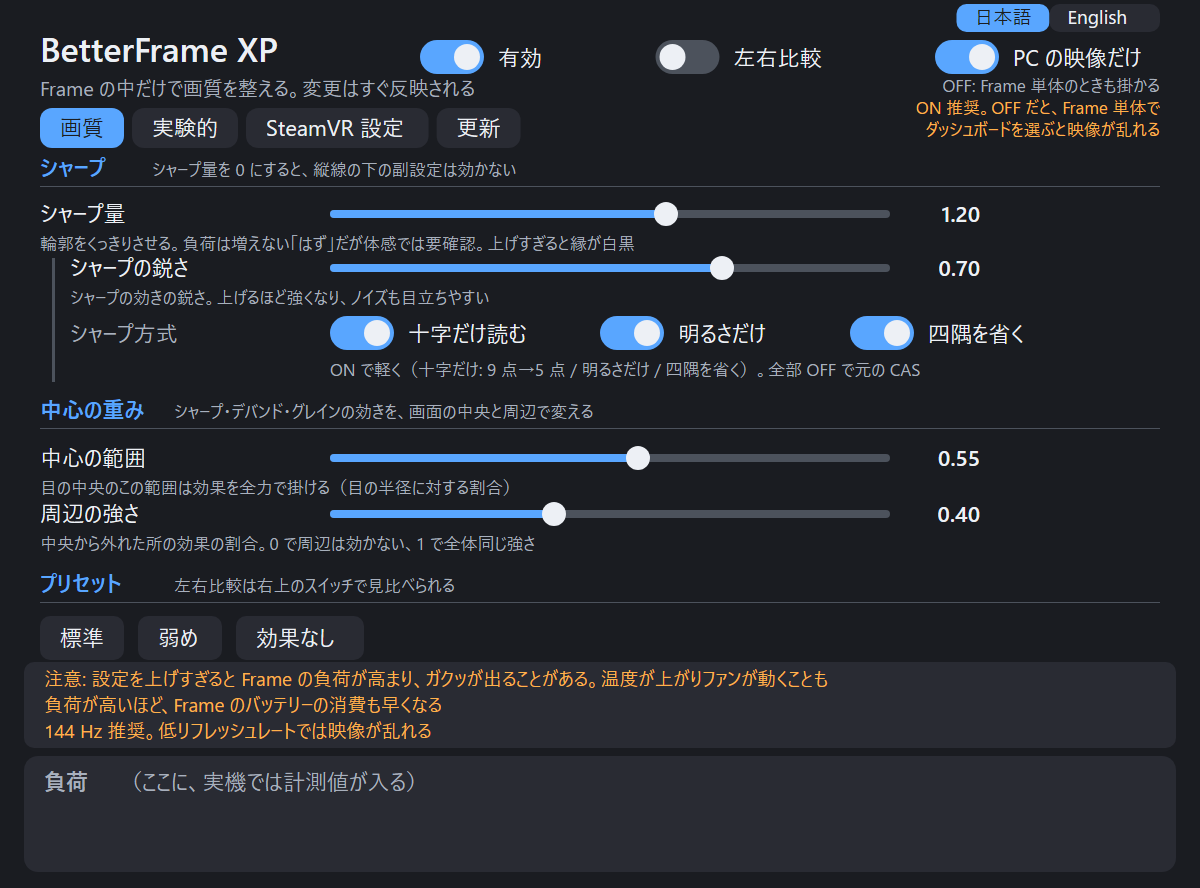
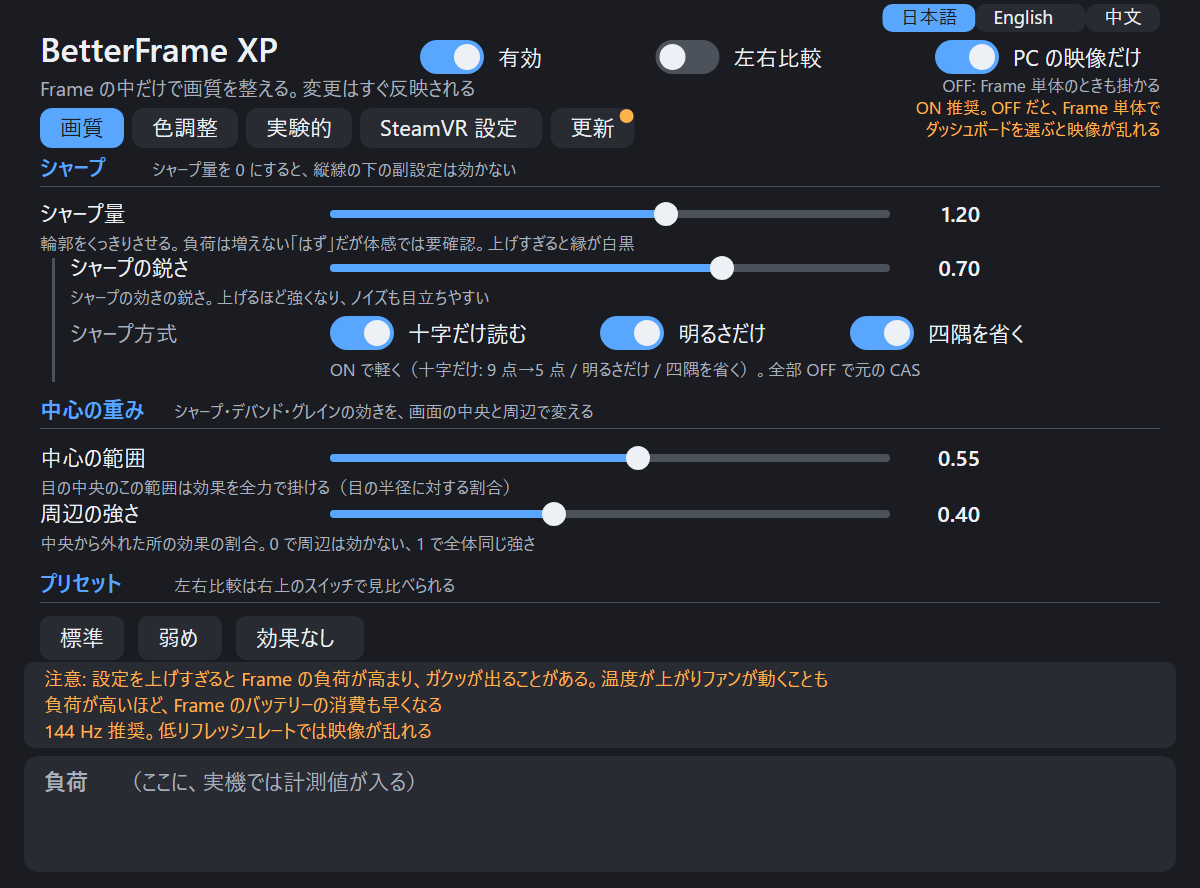
文書に色調整と中国語の説明を足し、中国語版 README を追加する
- README.zh.md を追加（README / README.en.md からリンク）。
- README / GUIDE / SETTINGS / ARCHITECTURE に色調整の節を足す。
- CHANGELOG に 0.1.3 を追記。
- パネルの見本を撮り直す（タブが 5 つになったため）。英語・中国語の見本も追加。

diff --git a/README.zh.md b/README.zh.md
@@ -1,0 +1,159 @@
+# BetterFrame XP
+
+其他语言：日本語 → [README.md](README.md) / English → [README.en.md](README.en.md)
+
+在 Steam Frame 上，把 PC 通过 Steam Link 送来的画面**在 Frame 侧做后期锐化（AMD CAS）**。这是一个让无线传输下略微模糊的画面变得清晰、让 VRChat 的草叶「像泥一样」糊掉的情况不那么显眼的工具。
+
+> **状态：试验版。** 只在作者的 1 台 Frame 上确认过。确认有效果的只有锐化。虽然设计成装上之后也能还原，但不保证能正常工作。
+
+## 效果示例
+
+作者拍摄的 Frame 画面照片（拍摄条件：高级超级采样为关、分辨率 250%、刷新率 144 Hz）。
+
+| before | after |
+|---|---|
+| ![before 1](docs/images/fx-before-1.jpg) | ![after 1](docs/images/fx-after-1.jpg) |
+| ![before 2](docs/images/fx-before-2.jpg) | ![after 2](docs/images/fx-after-2.jpg) |
+
+照片出自单人单机，观感评价凭作者的眼睛。因为是拍摄屏幕的照片，所以拍进了扫描线和摩尔纹。
+
+## 为什么放在 Frame 侧
+
+无线传输时画面会被压缩，细密的图案会最先被丢掉。丢掉的东西无法恢复。不过，如果在 PC 侧施加锐化，被强调的细节又会吃掉压缩的比特。**如果在解码之后（Frame 侧）施加，就不占用比特。** 详见[指南](docs/GUIDE.md#画面通路pc--frame)。
+
+```
+PC ─ 编码 ─ 无线 ─▶ Frame: 解码 ─▶ 合成器 ─▶ ★在这里锐化 ─▶ 显示器
+```
+
+## 安装（在 Frame 上用 1 条命令）
+
+```sh
+git clone https://github.com/omuomu0909/betterframe-xp.git && cd betterframe-xp
+sh contrib/setup.sh
+```
+
+会依次进行确认 → 构建（约 1 分钟）→ 安装 → 启用。如果缺少什么，就不做任何改动、说出原因后停止。只想先检查的话，执行 `sh contrib/setup.sh --check`。
+
+之后请在**不玩游戏的时候重启 SteamVR**（`setup.sh` 不会重启）。
+
+```sh
+~/.local/bin/betterframectl status   # 如果输出 "loaded in vrcompositor" 就表示成功
+```
+
+PC 侧的 SteamVR 里，编码前的锐化（`useSharpening`）请**保持关闭**。两边都施加就重复了。
+
+需要的环境：Steam Frame（SteamOS、aarch64）。不需要 root。构建工具在 SteamOS 0.5.6 里本来就有。仪表盘的面板也会一起装上并启用（需要中日文字体 `noto-cjk` 等。缺少的话 `setup.sh` 会停止。不需要面板就加 `--no-panel`）。面板默认日文，可在右上角切换「日本語 / English / 中文」。
+
+## 使用方法
+
+面板的外观（用 `panel/tools/panel_preview.py --shots` 生成的图片）：
+
+| 画质 | 色彩 | 更新 | 重启提示 |
+|---|---|---|---|
+| ![画质标签页](docs/images/panel-quality-zh.png) | ![色彩标签页](docs/images/panel-color-zh.png) | ![更新标签页](docs/images/panel-update-zh.png) | ![需要重启](docs/images/panel-restart-zh.png) |
+
+这些图片不是真机画面，而是把面板的绘制方式照搬到 HTML 的样张（数值是默认值，负载一栏在真机上会填入实测值）。
+
+### 面板基础
+
+- 在仪表盘的「BetterFrame XP」面板里，一边看施加的强弱一边调整。标签页有「画质 / 色彩 / 实验性 / SteamVR 设置 / 更新」。
+- 右上角的开关：「启用」（锐化等整体的 ON/OFF）、「左右对比」（在每只眼睛的中央画一条线。左边是直通，右边是处理后——锐化、去色带、颗粒和色彩校正都算在内）、「仅 PC 画面」（推荐 ON。OFF 的话 Frame 单独运行时也会施加）。
+- 画质标签页是「锐化」「中心权重」「预设」。色彩标签页是「对比度 / 饱和度 / 伽马 / 色温 / 亮度」，在锐化之后对最终画面做一次色彩校正（1.0 = 不改变），另有「中性 / 鲜明 / 柔和 / 护眼」四个快捷值（护眼 = 偏暖、降低刺眼感）。实验性标签页是「去色带」「锐化辅助」「颗粒」。竖线下面的子设置，在对应段落的量（锐化量、去色带量、颗粒量）为 0 时不生效。
+- 只有「SteamVR 设置」标签页的开关，改写的是 Frame 上 SteamVR 本身的设置。各开关的作用写在那个标签页的 Tips 里。
+
+### 关闭面板、再次打开
+
+- 不需要的时候，把光标移到仪表盘下方图标栏里的 BetterFrame XP 图标上，按「关闭」。面板程序结束，**「启用」变成 OFF**（锐化等变为直通。这是为了防止在没有可操作画面的情况下一直施加）。其他设置的数值不变。
+- 下次启动 SteamVR 时面板还会出现，但「启用」仍是 OFF。要用的时候自己打开。如果一直不想让它出现，用 `betterframectl panel-off`。
+- 关闭之后想再打开时，从仪表盘「＋」按钮的列表里选「BetterFrame XP」。打开之后，把右上角的「启用」打开。
+
+### 用命令操作
+
+```sh
+betterframectl set sharpenAmount 1.0   # 锐化量（0 表示不施加）
+betterframectl set contrast 1.1        # 对比度（1.0 表示不改变）
+betterframectl off                     # 立即直通
+betterframectl on
+```
+
+### 确认是否生效
+
+用 `betterframectl set showSplit 1`，在每只眼睛的中央画一条线。线的左边完全直通，右边是处理后的结果（锐化、去色带、颗粒、色彩校正都只在右侧），所以可以对比（和面板的「左右对比」一样）。调色时也能这样确认差异。
+
+### 提高强度时
+
+- **提高强度也「应该」不会增加负载**（锐化量只用在最后的乘法上，读取的像素和计算量都一样。负载变化的只是 0 和大于 0 两种。没有做过改变强度的测量）。
+- 但是在作者的主观感受里「设置越强越容易卡顿」，这和公式上的预期**不一致（未解决）**。提高强度后如果顿感增加，请降下来。详见 [docs/STUTTER.md](docs/STUTTER.md) 的 A-3。
+- 各数值的含义以及**哪些可以说确实有效**，见[设置参考](docs/SETTINGS.md)。文档把「改变后会这样」的「**应该**」（从计算公式和代码能得出的预测）与「**作者实际感受到的**」（单人单机）分开写。别人试验时，请把前者当作参考。
+
+### 出现「需要重启 SteamVR」时
+
+安装或更新之后，在重启 SteamVR 之前，图层（Vulkan layer，画面一侧）的内容不会生效。这时面板上方会出现橙色条带，所以在不玩游戏的时候重启（这个工具不会重启）。重启后条带消失。只重装面板时，不会出现条带。
+
+### 更新
+
+在「更新」标签页里确认 GitHub 的最新发行版，如果有更新的版本，用「更新到这个版本」替换。下载的文件会先核对 SHA-256 再安装。替换在别的进程里进行，关闭面板也会继续。不会重启 SteamVR（从下次启动 SteamVR 开始生效）。每小时自动检查可以在同一个标签页里关掉。只看 GitHub 的公开发行版（非公开仓库无法检查）。手动更新的话，先 `git pull`，再执行 `sh contrib/install.sh`。
+
+## 推荐的 SteamVR 设置
+
+在作者的 1 台 Frame 上试过、觉得不错的设置（单人单机的主观感受。是否合适因人而异）。锐化效果示例的照片是在高级超级采样为关、分辨率 250%、144 Hz 下拍的。
+
+| 设置 | 推荐 | 在哪里 | 理由 |
+|---|---|---|---|
+| 高级超级采样 | 关 | PC 的 SteamVR | 关掉更清晰，也更轻（作者的主观感受） |
+| 分辨率 | 200〜300%（作者是 250%） | PC 的 SteamVR | 如果 GPU 有余量，越高压缩带来的模糊感越少（作者的主观感受） |
+| 刷新率 | 144 Hz（120 Hz 也可以） | PC 的 SteamVR | 其他刷新率下施加锐化有时会卡顿（见下面「需要了解的事项」） |
+| 编码前的锐化（`useSharpening`） | 关 | PC 的 SteamVR | 会与这个工具的锐化重复 |
+| 景深校正（视线追踪重投影） | OFF | Frame 上面板的「SteamVR 设置」标签页 | 在作者的环境里，对减少摇晃最有效。目前没有遇到麻烦（单人单机的主观感受） |
+| 眼位校正 | OFF | 同上 | 和景深一起设为 OFF 后稳定了（单独的效果未确认）。OFF 与 Valve 的默认值相同 |
+
+除此之外的设置（目标比特率、传输画面的宽度等）还没有区分到可以推荐的程度。
+
+## 还原
+
+```sh
+betterframectl disable     # 从下次启动 SteamVR 起不再加载
+betterframectl uninstall   # 全部删除（在 SteamVR 启动的状态下）
+```
+
+如果 SteamVR 持续启动失败，还有自动摘掉图层的机制（[指南](docs/GUIDE.md#启动失败时自动保护)）。
+
+## 需要了解的事项
+
+> **注意：设置调得过高，Frame 的 GPU 负载会升高，可能出现卡顿。** 负载升高时 Frame 的温度也会升高，风扇可能会转。**电池消耗也会变快。** 请一边看面板下方的「负载」数值（GPU ms），一边注意不要调得过高。卡顿的种类见 [docs/STUTTER.md](docs/STUTTER.md)。
+
+- **当前的构建还没有在头显内确认**（处于重启 SteamVR 后确认的阶段）。
+- **把画面设成 144 Hz 和 120 Hz 以外时，施加锐化可能会以固定间隔出现卡顿**（在作者的 1 台 Frame 上，于 72 Hz 和 80 Hz 确认。原因未确定）。**请使用 144 Hz 或 120 Hz，其他刷新率下请把 `sharpenAmount` 设为 0。** 在作者的 Frame 上，关掉锐化就停止了。详见 [docs/STUTTER.md](docs/STUTTER.md) 的 F。
+- 只有面板的「SteamVR 设置」标签页（景深校正、眼位校正）不是改写图层，而是改写 **SteamVR 的设置**。不按开关就什么都不写。最初的值已经记录下来，`uninstall` 会还原。在作者的环境里关掉后摇晃减少了，但这是单人单机的主观感受。
+- 丢失的细节无法造出（这不是超分辨率）。把 `sharpenAmount` 提高到 1 以上，边缘容易出现黑白描边。
+- OS / SteamVR 的更新可能让它无法运行。
+- 「实验性」标签页（去色带、颗粒等）在外观上的评价还不充分。
+- **调整去色带量会出现画面紊乱的问题**（面板的实验性标签页里也写了）。如果乱了，把 `debandAmount` 改回 0。条件和原因还没有调查。
+
+## 术语
+
+| 词语 | 含义 |
+|---|---|
+| CAS | AMD 的锐化（强调轮廓）处理。这个工具在 Frame 侧施加的 |
+| 图层 | Vulkan 图层。在 SteamVR 的画面构建（vrcompositor）显示之前，把处理插入图像的部件 |
+| vrcompositor | SteamVR 的合成器。组装要显示的帧。重启的对象就是它 |
+| 去色带 | 让天空等处的色阶（条带）变平滑的处理（实验性） |
+| 颗粒 | 在画面上叠加细小的颗粒，让压缩带来的平淡感不那么显眼的处理（实验性） |
+| `params.conf` | 设置文件。面板和 `betterframectl set` 会改写它（`~/.config/betterframe-xp/`） |
+
+## 延伸阅读
+
+| 文档 | 内容 |
+|---|---|
+| [docs/GUIDE.md](docs/GUIDE.md) | 详细的指南。画面经过的路径、安装位置一览、各校正的技术说明、还原方法、已知问题 |
+| [docs/SETTINGS.md](docs/SETTINGS.md) | 设置一览，以及已确认 / 未确认的事项 |
+| [docs/STUTTER.md](docs/STUTTER.md) | 「卡顿」的种类（6 种），以及这个工具相关 / 无关的部分。出现卡顿时的分辨方法 |
+| [docs/ARCHITECTURE.md](docs/ARCHITECTURE.md) | 实现的说明（图层、画面检测、测量） |
+| [CHANGELOG.md](CHANGELOG.md) | 各版本的变更 |
+| [THIRD_PARTY.md](THIRD_PARTY.md) | 所依据的代码与许可证 |
+
+## 许可证
+
+MIT License（[LICENSE](LICENSE)）。Copyright (c) 2026 omuomu0909。
+
+所依据的代码采用其他许可证，各自的声明在 [THIRD_PARTY.md](THIRD_PARTY.md) 和各目录的 `LICENSE` 里（图层是 zlib，面板的一部分是 MIT，OpenVR 头文件是 BSD-3-Clause，CAS 与 deband 是 MIT）。

diff --git a/docs/SETTINGS.md b/docs/SETTINGS.md
@@ -63,6 +63,27 @@
 | `grainSize` | 1〜4 px / 1 | 粒が大きくなる | 個別の評価なし | 測っていない |
 | `grainAnimate` | 0/1 / 1 | 1 は毎フレーム粒が変わる（64 通りで循環）。0 は固定 | VR では、固定だと「顔に貼り付いて」見え、動かすとちらつきに見えることがある | 変わらない「はず」 |
 
+## 色調整（パネルの「色調整」タブ。1.0 で変化なし）
+
+シャープ・デバンド・グレインのあとで、最終的な画面の色を整える。**5 つとも 1.0 のときは着色器がこの段落を飛ばす**（レイヤーは素通しコピーのまま）。色調整は「目の中心の重み」の影響を受けず、目全体に均一に掛かる。
+
+| キー | 範囲 / 既定 | 変えると「はず」 | 作者の体感 | 負荷 |
+|---|---|---|---|---|
+| `contrast` | 0.5〜1.5 / 1.0 | 中間グレーを軸に明暗の差を変える。1 より大きいと硬調、小さいと平坦 | 新規。未評価 | 「はず」ほぼ増えない（1 画素 1 回の積和） |
+| `saturation` | 0〜2 / 1.0 | 輝度と混ぜる。0 で白黒、1 より大きいと鮮やか | 同上 | 同上 |
+| `gamma` | 0.5〜2.5 / 1.0 | 出力を `pow(c, 1 / gamma)` する。1 より大きいと中間調が持ち上がる | 同上 | 1.0 以外のときだけ 1 画素 2 回の `pow` |
+| `temperature` | 0.8〜1.2 / 1.0 | RGB ゲイン `(t, 1, 1/t)` を輝度で正規化する。暖色・寒色に寄せても明るさは変わらない | 同上 | ごくわずか |
+| `brightness` | 0.5〜1.5 / 1.0 | 最後に全体へ掛ける（ガンマのあと） | 同上 | ごくわずか |
+
+ショートカット（この 5 つだけを変える）:
+
+| ショートカット | `contrast` | `saturation` | `gamma` | `temperature` | `brightness` |
+|---|---|---|---|---|---|
+| ニュートラル | 1.00 | 1.00 | 1.00 | 1.00 | 1.00 |
+| ビビッド | 1.03 | 1.10 | 1.01 | 1.01 | 1.01 |
+| ソフト | 0.95 | 0.90 | 1.05 | 1.00 | 0.98 |
+| アイケア（暖色） | 1.05 | 1.10 | 1.00 | 1.05 | 1.00 |
+
 ## 視線の補正（SteamVR の設定。`params.conf` には書かない）
 
 パネルの「SteamVR 設定」タブで、Frame のアイトラッキングの補正 2 つをオン/オフする。シャープとは別の機能で、レイヤーは関係しない。SteamVR 自体の設定を書き換えるのはこのタブだけ。
@@ -92,6 +113,7 @@
 | タブ | 中身 |
 |---|---|
 | 画質 | 段落ごとに分けてある。**シャープ**: `sharpenAmount`（主）。その下に副設定として `sharpness` と、シャープの方式 `casCross` `casLuma` `cornerSkip`（`casCross` `casLuma` `cornerSkip` は軽量化）。副設定は `sharpenAmount` が 0 のときは効かない。**中心の重み**: `centerRadius` `edgeAmount`。**プリセット**（標準 / 弱め / 効果なし）。右上のヘッダーに `enabled` `showSplit` `streamOnly` |
+| 色調整 | 5 つのスライダー（`contrast` `saturation` `gamma` `temperature` `brightness`）とショートカット（ニュートラル / ビビッド / ソフト / アイケア）。**シャープのあとに最終画面へ掛かる。中心の重みの影響を受けない** |
 | 実験的 | 段落ごとに分けてある。デバンド（主: `debandAmount`、副: `debandRange` `debandThreshold`）/ シャープの補助（`detailBoost`。画質タブの `sharpenAmount` が 0 だと効かない）/ グレイン（主: `grainAmount`、副: `grainSize` `grainAnimate`）。プリセット（暗部重視 / 草・地面）。3 つの効果とも「中心の重み」で周辺ほど弱まる |
 | SteamVR 設定 | Frame の SteamVR の設定である、視線の補正（奥行き / 目の位置）と、それぞれの Tips。**SteamVR 自体の設定を書き換えるのはこのタブだけ** |
 | 更新 | いまの版 / 最新の版、「今すぐ確認」「この版に更新する」、1 時間ごとの自動確認のスイッチ（`updateAutoCheck`、既定 ON。パネルだけが使う設定で、レイヤーは読まない）。仕組みは [GUIDE の更新の節](GUIDE.md#更新パネルから) |

diff --git a/README.md b/README.md
@@ -1,6 +1,6 @@
 # BetterFrame XP
 
-English: [README.en.md](README.en.md)
+English: [README.en.md](README.en.md) / 中文: [README.zh.md](README.zh.md)
 
 Steam Frame で、PC から Steam Link で送られてくる映像に**シャープ（AMD CAS）を Frame 側で後掛け**する。無線で少しぼやけた映像をくっきりさせ、VRChat の草や葉が「泥のように」つぶれるのを目立たなくするための道具。
 
@@ -42,23 +42,23 @@ sh contrib/setup.sh
 
 PC 側の SteamVR で、エンコード前のシャープ（`useSharpening`）は**切っておく**。両方掛けると二重になる。
 
-必要なもの: Steam Frame（SteamOS、aarch64）。root 不要。ビルド道具は SteamOS 0.5.6 に最初から入っていた。ダッシュボードのパネルも一緒に入って有効になる（日本語フォント `noto-cjk` などが要る。足りなければ `setup.sh` が止まる。パネル不要なら `--no-panel`）。パネルは日本語が既定で、右上の「日本語 / English」で切り替えられる。
+必要なもの: Steam Frame（SteamOS、aarch64）。root 不要。ビルド道具は SteamOS 0.5.6 に最初から入っていた。ダッシュボードのパネルも一緒に入って有効になる（日本語フォント `noto-cjk` などが要る。足りなければ `setup.sh` が止まる。パネル不要なら `--no-panel`）。パネルは日本語が既定で、右上の「日本語 / English / 中文」で切り替えられる。
 
 ## 使い方
 
 パネルの見た目（`panel/tools/panel_preview.py --shots` で作った画像）:
 
-| 画質 | 更新 | 再起動の表示 |
-|---|---|---|
-| ![画質タブ](docs/images/panel-quality-ja.png) | ![更新タブ](docs/images/panel-update-ja.png) | ![再起動が必要](docs/images/panel-restart-ja.png) |
+| 画質 | 色調整 | 更新 | 再起動の表示 |
+|---|---|---|---|
+| ![画質タブ](docs/images/panel-quality-ja.png) | ![色調整タブ](docs/images/panel-color-ja.png) | ![更新タブ](docs/images/panel-update-ja.png) | ![再起動が必要](docs/images/panel-restart-ja.png) |
 
 画像は実機の画面ではなく、パネルの描き方を HTML に写した見本（数値は既定値、負荷の欄は実機で計測値が入る場所）。
 
 ### パネルの基本
 
-- ダッシュボードの「BetterFrame XP」パネルで、掛け具合を見ながら変える。タブは「画質 / 実験的 / SteamVR 設定 / 更新」。
+- ダッシュボードの「BetterFrame XP」パネルで、掛け具合を見ながら変える。タブは「画質 / 色調整 / 実験的 / SteamVR 設定 / 更新」。
 - 右上のスイッチ: 「有効」（シャープなど全体の ON/OFF）、「左右比較」（各目の中央に線を引く。左が素通し、右が処理後）、「PC の映像だけ」（ON 推奨。OFF だと Frame 単体のときも掛かる）。
-- 画質タブは「シャープ」「中心の重み」「プリセット」。実験的タブは「デバンド」「シャープの補助」「グレイン」。縦線の下の副設定は、その段落の量（シャープ量・デバンド量・グレイン量）が 0 のときは効かない。
+- 画質タブは「シャープ」「中心の重み」「プリセット」。色調整タブは「コントラスト / 彩度 / ガンマ / 色温度 / 明るさ」で、シャープのあとで最終画面の色を整える（1.0 で変化なし）。ショートカットは「ニュートラル / ビビッド / ソフト / アイケア」。実験的タブは「デバンド」「シャープの補助」「グレイン」。縦線の下の副設定は、その段落の量（シャープ量・デバンド量・グレイン量）が 0 のときは効かない。
 - 「SteamVR 設定」タブのスイッチだけが、Frame の SteamVR 自体の設定を書き換える。各スイッチの効果は、そのタブの Tips に書いてある。
 
 ### パネルを閉じる・もう一度出す

diff --git a/README.en.md b/README.en.md
@@ -1,6 +1,6 @@
 # BetterFrame XP
 
-Japanese: [README.md](README.md)
+Japanese: [README.md](README.md) / Chinese: [README.zh.md](README.zh.md)
 
 On Steam Frame, this applies AMD CAS sharpening on the Frame side to the video that the PC sends over Steam Link. It makes the slightly blurry wireless video sharper, and makes the "smeared like mud" look of grass and leaves in VRChat a little less noticeable.
 
@@ -44,23 +44,23 @@ Then **restart SteamVR while you are not playing** (`setup.sh` does not restart 
 
 On the PC side, turn **off** sharpening before encoding (`useSharpening`) in SteamVR. Running both applies it twice.
 
-Requirements: Steam Frame (SteamOS, aarch64). Root is not needed. The build tools were already included in SteamOS 0.5.6. The dashboard panel is installed and enabled too. It needs a Japanese font (`noto-cjk` and similar); if that is missing, `setup.sh` stops. To skip the panel, use `--no-panel`. The panel is in Japanese by default; the "日本語 / English" buttons at its top right switch the language.
+Requirements: Steam Frame (SteamOS, aarch64). Root is not needed. The build tools were already included in SteamOS 0.5.6. The dashboard panel is installed and enabled too. It needs a Japanese font (`noto-cjk` and similar); if that is missing, `setup.sh` stops. To skip the panel, use `--no-panel`. The panel is in Japanese by default; the "日本語 / English / 中文" buttons at its top right switch the language.
 
 ## Usage
 
 Look of the panel (images made with `panel/tools/panel_preview.py --shots`):
 
-| Quality | Update | Restart notice |
-|---|---|---|
-| ![Quality tab](docs/images/panel-quality-ja.png) | ![Update tab](docs/images/panel-update-ja.png) | ![Restart needed](docs/images/panel-restart-ja.png) |
+| Quality | Colour | Update | Restart notice |
+|---|---|---|---|
+| ![Quality tab](docs/images/panel-quality-en.png) | ![Colour tab](docs/images/panel-color-en.png) | ![Update tab](docs/images/panel-update-en.png) | ![Restart needed](docs/images/panel-restart-en.png) |
 
 These are not screenshots from the device. They are mockups of the panel's HTML, with default values. The load field is where measured values appear on the device.
 
 ### Panel basics
 
-- Adjust the look on the dashboard's "BetterFrame XP" panel while you watch it. Tabs: Quality / Experimental / SteamVR settings / Update.
+- Adjust the look on the dashboard's "BetterFrame XP" panel while you watch it. Tabs: Quality / Colour / Experimental / SteamVR settings / Update.
 - Switches at the top right: "Enabled" (turns sharpening and the rest on or off), "Split compare" (draws a line down the center of each eye; the left side is passed through, the right side is processed), and "PC video only" (ON recommended; with OFF, it is applied while Frame is on its own, too).
-- The Quality tab has sharpness, center weight, and presets. The Experimental tab is split into deband, sharpening assist, and grain. Sub-settings under the vertical line have no effect when that section's amount (sharpen, deband, or grain amount) is 0.
+- The Quality tab has sharpness, center weight, and presets. The Colour tab grades the final picture (contrast / saturation / gamma / temperature / brightness, 1.0 = unchanged) after sharpening, with Neutral / Vivid / Soft / Eye care shortcuts. The Experimental tab is split into deband, sharpening assist, and grain. Sub-settings under the vertical line have no effect when that section's amount (sharpen, deband, or grain amount) is 0.
 - Only the switches on the SteamVR settings tab change the SteamVR settings on the Frame itself. Each tab's Tips explain what each switch does.
 
 ### Closing the panel and opening it again

diff --git a/docs/ARCHITECTURE.md b/docs/ARCHITECTURE.md
@@ -46,6 +46,7 @@ col += cas × sharpenAmount × weight
 
 - **CAS**: AMD FidelityFX CAS（適応型シャープ）。コントラストが高い所ほど控えめに掛かるので、圧縮ノイズや強い輪郭を強調しすぎにくい。`sharpness` が式の中の係数。
 - **軽量版**: 元の CAS は 3×3 の 9 点を色ごとに計算する。配布の既定（`contrib/params.conf`）は「十字の 5 点・輝度 1 つ・目の四隅は処理しない」（`casCross 1` / `casLuma 1` / `cornerSkip 1.15`）。シェーダー自体は 0 / 0 / 0 で元の式に戻る。
+- 色調整（コントラスト / 彩度 / ガンマ / 色温度 / 明るさ）は最後にまとめて掛ける。`showSplit` の左半分はその手前で素通しのまま返るので、左側には色調整も掛からない。
 - デバンド・グレイン・ディテール重視も同じシェーダーに入っている（実験的な機能。→ [SETTINGS.md](SETTINGS.md) の「実験的な機能」）。
 - 各補正の式と読み方は [GUIDE](GUIDE.md) の「補正の技術説明」。
 - 色の計算は `mediump`（半精度）。座標とハッシュは `highp`。「半精度で Adreno の ALU レートが約 2 倍」はコード中のコメントで、**作者は測っていない**。
@@ -53,7 +54,7 @@ col += cas × sharpenAmount × weight
 ## 4. パラメータの反映（`effect_postfx.cpp`）
 
 - `~/.config/betterframe-xp/params.conf` を 0.25 秒ごとに読み直す（`key = value`、`#` 以降はコメント、範囲外はクランプ）。
-- present のたびに、uniform バッファの内容をその場で作る。ファイルの値 + グレインの乱数の種。`streamOnly` が有効で映像が無いフレームは、シャープ・デバンド・グレインの量を 0 にする。内容が変わったときだけ書き込む。
+- present のたびに、uniform バッファの内容をその場で作る。ファイルの値 + グレインの乱数の種。`streamOnly` が有効で映像が無いフレームは、シャープ・デバンド・グレインの量を 0 にし、色調整もニュートラル（全部 1.0）に戻す。内容が変わったときだけ書き込む。
 - 描画中のフレームが次の値を見ることがあるが、差は最大 1 フレーム分。
 
 ## 5. 映像の検出（`stream_gate.cpp`）— `streamOnly` の中身
